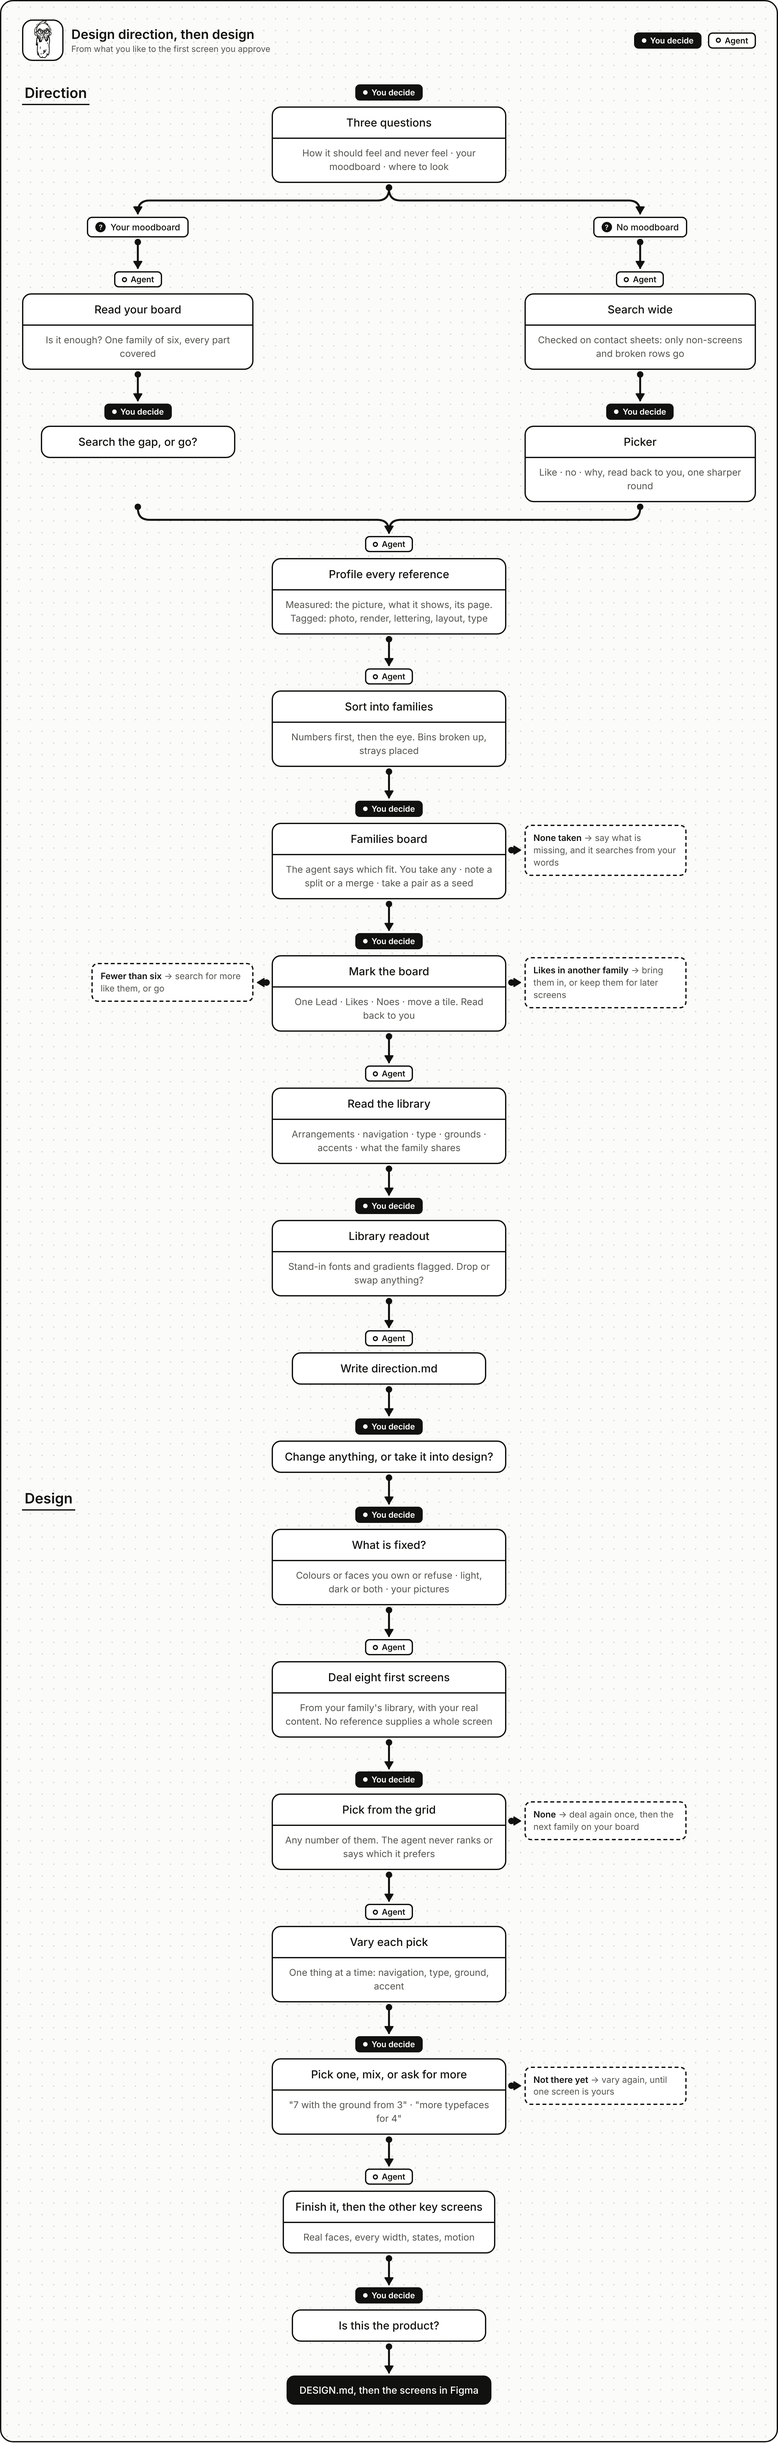
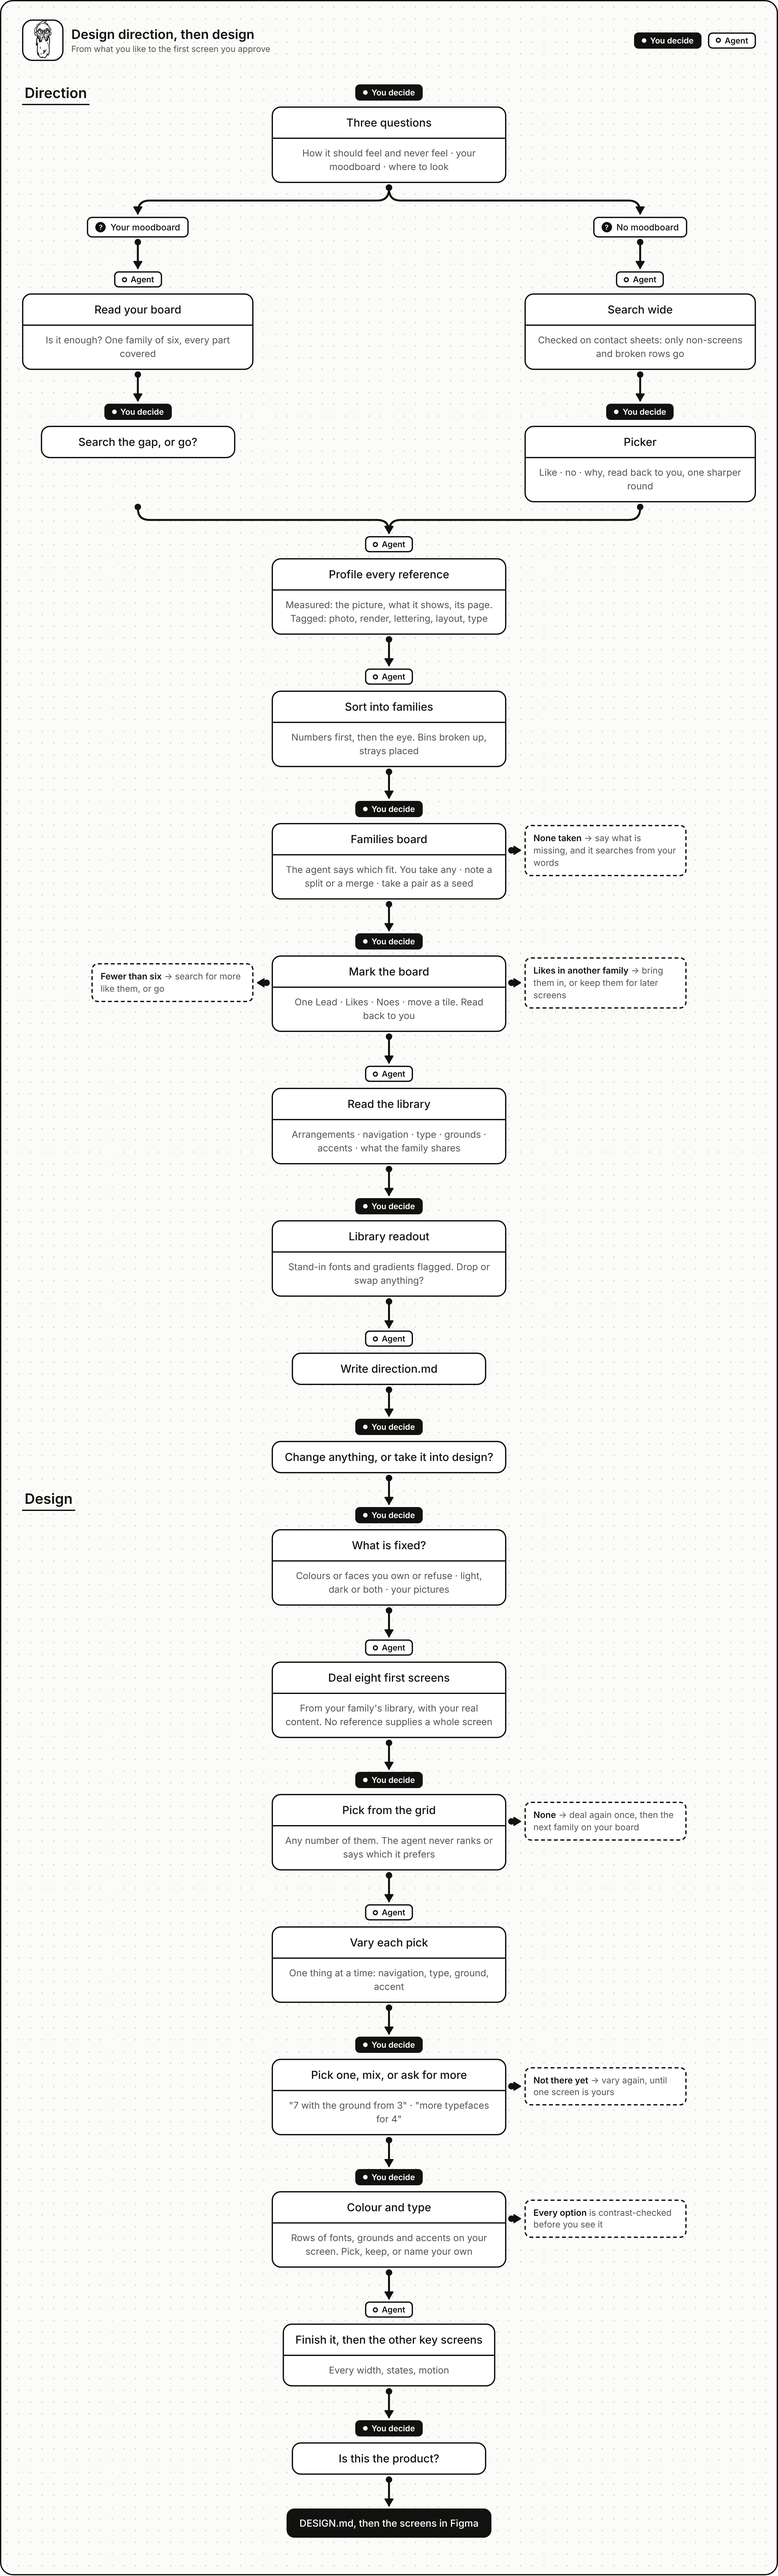
Let them tune colour and type on the chosen screen, before it is finished.
design gains a step 5: rows of display faces, body faces, grounds with
their ink, and accents, each rendered on the chosen screen, from close
alternatives, the family's own palettes and anything they name. Every
option passes contrast before it is shown. They pick, keep or name their
own; a pick becomes a library entry from theirs and the screen is shown
again. The grid page takes colour and face overrides in its URL so options
are captures, not rebuilds. Later steps are renumbered, and the flow
picture shows the new step.

Claude-Session: https://claude.ai/code/session_01HLXJ1ZQSj2napXVEq61B7m

diff --git a/assets/flow-design-direction.html b/assets/flow-design-direction.html
@@ -95,9 +95,11 @@
     <div class="node" id="vary" style="grid-column:2;grid-row:16"><span class="pill agent">Agent</span><div class="card"><h3>Vary each pick</h3><p>One thing at a time: navigation, type, ground, accent</p></div></div>
     <div class="node" id="choose" style="grid-column:2;grid-row:17"><span class="pill you">You decide</span><div class="card"><h3>Pick one, mix, or ask for more</h3><p>"7 with the ground from 3" · "more typefaces for 4"</p></div></div>
     <div class="note" id="n-choose" style="grid-column:3;grid-row:17"><b>Not there yet</b> → vary again, until one screen is yours</div>
-    <div class="node" id="finish" style="grid-column:2;grid-row:18"><span class="pill agent">Agent</span><div class="card"><h3>Finish it, then the other key screens</h3><p>Real faces, every width, states, motion</p></div></div>
-    <div class="node" id="approve" style="grid-column:2;grid-row:19"><span class="pill you">You decide</span><div class="card"><h3>Is this the product?</h3></div></div>
-    <span class="end" id="design" style="grid-column:2;grid-row:20">DESIGN.md, then the screens in Figma</span>
+    <div class="node" id="tune" style="grid-column:2;grid-row:18"><span class="pill you">You decide</span><div class="card"><h3>Colour and type</h3><p>Rows of fonts, grounds and accents on your screen. Pick, keep, or name your own</p></div></div>
+    <div class="note" id="n-tune" style="grid-column:3;grid-row:18"><b>Every option</b> is contrast-checked before you see it</div>
+    <div class="node" id="finish" style="grid-column:2;grid-row:19"><span class="pill agent">Agent</span><div class="card"><h3>Finish it, then the other key screens</h3><p>Every width, states, motion</p></div></div>
+    <div class="node" id="approve" style="grid-column:2;grid-row:20"><span class="pill you">You decide</span><div class="card"><h3>Is this the product?</h3></div></div>
+    <span class="end" id="design" style="grid-column:2;grid-row:21">DESIGN.md, then the screens in Figma</span>
 
     <svg class="links" id="links"></svg>
   </div>
@@ -134,14 +136,14 @@
     link("gap", "profile"); link("picker", "profile");
     link("profile", "sort"); link("sort", "families"); link("families", "mark");
     link("mark", "library"); link("library", "readout"); link("readout", "direction"); link("direction", "take");
-    link("take", "fixed"); link("fixed", "deal"); link("deal", "grid"); link("grid", "vary"); link("vary", "choose"); link("choose", "finish"); link("finish", "approve"); link("approve", "design");
+    link("take", "fixed"); link("fixed", "deal"); link("deal", "grid"); link("grid", "vary"); link("vary", "choose"); link("choose", "tune"); link("tune", "finish"); link("finish", "approve"); link("approve", "design");
     // From a card's side to a note beside it, dashed: a branch you may take, not the main line.
     const sideOf = (cardId, noteId) => {
       const a = cardOf(cardId).getBoundingClientRect(), f = flow.getBoundingClientRect(), b = at(noteId);
       const right = b.x > (a.left + a.right) / 2 - f.left, x1 = (right ? a.right : a.left) - f.left + (right ? 8 : -8), x2 = right ? b.l - 6 : b.r + 6, y = Math.min(Math.max(b.y, a.top - f.top + 14), a.bottom - f.top - 14);
       draw(`M${x1},${y} L${x2},${y}`, true, `<circle cx="${x1}" cy="${y}" r="5"/>${arrowSide(x2, y, right ? 1 : -1)}`);
     };
-    sideOf("families", "n-none"); sideOf("mark", "n-likes"); sideOf("mark", "n-six"); sideOf("grid", "n-grid"); sideOf("choose", "n-choose");
+    sideOf("families", "n-none"); sideOf("mark", "n-likes"); sideOf("mark", "n-six"); sideOf("grid", "n-grid"); sideOf("choose", "n-choose"); sideOf("tune", "n-tune");
     document.title = "ready";
   });
 </script>

diff --git a/skills/design/SKILL.md b/skills/design/SKILL.md
@@ -86,6 +86,7 @@ One page, `design-exploration/<slug>/prototype/grid.html`, plain HTML and CSS, n
 - **Take the arrangement, never the reference.** Nothing of a reference's content, pictures or wording is used.
 - **Type fills by rule, not by number.** Display type that should fill a width is sized to that width with a limit on its height, so a narrow face and a wide one both fit. Measure the text, not its box (`width: max-content`). Words on one line share one size, and the line fits between the margins. Display over body stays inside the family's `scale`. Running text uses the type entry's `body`.
 - **Nothing small sits on display type.** Text, labels and bands placed by rule go in the clear space beside or between the display lines, found after the type is sized, never at a fixed position. Type that crosses a picture stays readable on it.
+- **Overrides in the URL.** The page also takes `&ground=%23hex&ink=%23hex&accent=%23hex&face=Name&body=Name`, so a colour or a face can be tried on a recipe by capturing it, not by rebuilding it. Step 5 uses this.
 - **Fix faults, never taste.** Capture every recipe and open each at full size. An overlap, a clipped word, a stray element, text that cannot be read: fix it with a rule in the arrangement, so the fix holds for whatever is dealt into it, and capture again. Never tune one recipe, and never change what was dealt.
 
 ```
@@ -117,11 +118,32 @@ Each pick gets a row: the pick, then one variation for each of navigation, type,
 - Every flag reads its numbers from the last round shown, so a variation can be varied again. Each ask is a new round: capture it and show its sheet. Never edit `deal.json` by hand.
 - Iterate until one screen is theirs. Read it back in one line (its arrangement, navigation, type, ground and accent) and wait for their yes.
 
-### 5. Finish the chosen screen
+### 5. Colour and type, by them
+
+The chosen screen took its colours and faces from the library, which holds only what the references use. Before it is finished, they tune them on the screen itself, one thing at a time, from rendered options. The look stays the family's; the exact values become theirs.
+
+One sheet, a row per thing, every option on the chosen screen at the grid's size (`sheet.mjs --cols 4`), numbered, never ranked:
+
+- **Display face:** the face it has, then up to five more of the same kind (the width, weight and contrast its library entry describes), each free to license or theirs. An `eye` stand-in is always in this row.
+- **Body face:** the body face it has, then up to five that sit with the chosen display face.
+- **Ground and ink:** the ground it has, a step lighter and a step darker, the grounds of the family's other references (their palettes in `profiles.json`), and their own colours. Each with the ink that reads on it.
+- **Accent:** the accent it has, a step lighter, darker, warmer and cooler, the other loud colours in the family's palettes, none, and theirs.
+
+Every text and ground pair and every accent goes through `scripts/contrast.mjs` before it is shown: an option that fails is left out, not shown with a warning.
+
+> Pick one in each row, or name your own: a colour, a face. "Keep" leaves a row as it is.
+
+- **A pick** becomes a library entry with `"from": ["theirs"]`, and the screen is dealt with it (`deal.mjs … --mix 1,accent=<id>`), captured and shown again, once, with everything they picked together.
+- **Something they name** is built the same way, checked the same way, and shown before it counts.
+- **"Go"** keeps what the screen has, and says so.
+
+Read the screen back in one line (arrangement, navigation, display and body faces, ground, ink, accent) and wait for their yes.
+
+### 6. Finish the chosen screen
 
 Until now every screen was a sketch at one size. Now it becomes the design. Read [design-rules.md](references/design-rules.md) again and work through it on this screen.
 
-- **The real faces.** An entry marked `eye` is a stand-in. Where the product can use something closer, show the title in up to six candidates as one more row, and let them pick. Every face is free to license or one they own.
+- **The faces they chose** in step 5, loaded properly and set at every size. A face still marked `eye` that they kept is said again here: it is a stand-in, and the product ships whatever it stands in for, or it.
 - **The detail the sketch skipped:** the small text, the spacing between things, the page below the first screen, every width down to the phone. The family's ranges hold here too: measure the finished screen (`measure.mjs` on its file URL) and say where it falls outside them.
 - **Navigation that works:** the menu open, what it does on scroll, what it becomes on a phone.
 - **Motion.** A reference that moves is felt again, not remembered. Play its recorded frames and open its live link again: record it with `capture.mjs <url> --out design-exploration/<slug>/refs/<name>-replay --frames 12`, with `--scroll` or `--click` for what moves on scroll or on a click. Note what moves, in what order, how fast, and how it eases. Then build that kind of motion in CSS, with the same feel and none of its content, and say in chat which reference it came from. A link that no longer loads: work from the frames, and say so.
@@ -130,7 +152,7 @@ Until now every screen was a sketch at one size. Now it becomes the design. Read
 
 The finished screen moves to its own file, `design-exploration/<slug>/prototype/<screen>.html`. The folder is gitignored: the winner goes into `DESIGN.md`, not into git.
 
-### 6. The other key screens
+### 7. The other key screens
 
 Read the brief's key screens (2–4). Each keeps the chosen navigation, type, ground and accent. Its arrangement comes from `direction.md`'s Other parts where a reference shows that kind of screen, taken as an arrangement and never whole, and otherwise follows from the finished first screen.
 
@@ -142,7 +164,7 @@ The default state is not enough. Each key screen also gets the empty, loading an
 
 A gap no reference covers (a screen, a control) → `design-direction` one-piece mode with its own slug, then back here.
 
-### 7. Self-check, then show
+### 8. Self-check, then show
 
 Screenshot each screen at desktop and mobile:
 
@@ -155,7 +177,7 @@ Shoot every state, in every theme, not only the default. Check them against the 
 
 A pattern can bring a feature the brief does not have. Name it when you show it. If they keep it, that is a product change: `idea`, Change, before `DESIGN.md`.
 
-### 8. Approve: write `DESIGN.md` in one go
+### 9. Approve: write `DESIGN.md` in one go
 
 Only on their yes to a rendered prototype. Write the whole file from [design-md-template.md](references/design-md-template.md): idea, voice, colour, type, spacing, components, decisions. Write it once, from what was approved. Do not draft it during iteration.
 
@@ -169,7 +191,7 @@ Only on their yes to a rendered prototype. Write the whole file from [design-md-
 - **Tokens are code names.** Name each colour, type and spacing token as it will be named in code (`color/ink`, `space/md`). Figma variables use the same names, with code syntax `var(--color-ink)`.
 - **Soft rules overridden on purpose** go under Decisions with the reason. Hard rules cannot be overridden. A device that came with the chosen look and that the rules list as a tell is on purpose: write it under Decisions as the idea it serves here, never as where it came from.
 
-### 9. Figma
+### 10. Figma
 
 Load `figma-use`, `figma-generate-library` and `figma-generate-design`, and follow them. This skill adds only what they do not decide.
 
@@ -199,7 +221,7 @@ Before any component, lay the whole look out on one frame, `Board`, on the Cover
 
 If a Figma decision changes a rule (a new token, a component variant, a spacing step), update `DESIGN.md` in the same turn and say what changed.
 
-### 10. Clean up
+### 11. Clean up
 
 Offer to delete `design-exploration/<slug>/`. `DESIGN.md` and Figma now carry the result. On no, leave it. It is gitignored either way.
 
@@ -221,6 +243,7 @@ A feature with screens, once `DESIGN.md` exists.
 
 - Choose, swap, drop or rank a dealt recipe, or say which screen you prefer. Tune one recipe instead of fixing its arrangement.
 - Ask them to describe the look they want. Show them screens.
+- Pick a colour or a face for them in step 5, rank the options, or show one that fails contrast.
 - Build more than the first screen before they have chosen one.
 - Take a reference's content, pictures or wording, or all of its arrangement, type and ground together.
 - Write `DESIGN.md` before they approve a rendered prototype, or rewrite it during a feature. Only a rebrand's first pass replaces it.

diff --git a/CHANGELOG.md b/CHANGELOG.md
@@ -15,6 +15,7 @@
 - Every reference gets a profile in one local file, `profiles.json`: its measured traits; its figure (how many colours, how colourful, how grey, soft surfaces against hard edges, its palette, and a 6 by 4 grid of where things sit), which tells a photograph from a 3D render from chrome lettering; what its page is made of (images, video, canvas, SVG), its fonts, largest texts, gradients and patterns; and the agent's tags in a fixed vocabulary (picture, photo, type, weight, layout, colour, surface) with an optional note. `measure.mjs --links --profiles` builds it in one browser run, and `tag.mjs` makes the tagging sheets and checks every word. `families.mjs` sorts on all of it, joining the closest references first, so outliers stay apart as strays; it names pairs of strays as family seeds and each stray's nearest family, and leads each family's line with what its tags agree on.
 - Pictures are told apart in more kinds: the tags add icon (small symbols, logos, emoji) and shape (solid flat shapes, colour blocks), and each page counts its icons and how much of it is solid blocks. Light or dark no longer splits a family: the same look on both grounds is one family, and the ground is dealt later.
 - More places to steer before design starts: the families are presented with what the agent's eye changed in each, and which ones look like your "never feel" (a hint, never a cut); pairs of strays are their own groups to take as seeds; taking no family leads to a search from your words; likes outside the lead's family are asked about; and the library is shown in a short readout, stand-in fonts and gradients flagged, for you to drop or swap entries before the direction is written.
+- After a screen is chosen, you tune its colour and type on it: rows of display faces, body faces, grounds and accents rendered on your screen, from close alternatives, the family's own palettes and anything you name, each contrast-checked before you see it. Pick, keep, or name your own; the agent never picks or ranks.
 - In the grid, a variation can be varied again, a mix (`--mix 7,ground=3`) and more of one thing (`--more 4:type`) are dealt by the script, and the anchor's two screens never sit side by side.
 - The brief no longer describes a look. `idea` keeps layout, colour, typeface and named styles out of it.
 - A device that came with a look you chose is on purpose: `DESIGN.md` says what it does for the product, and the design rules no longer count it as a tell.
